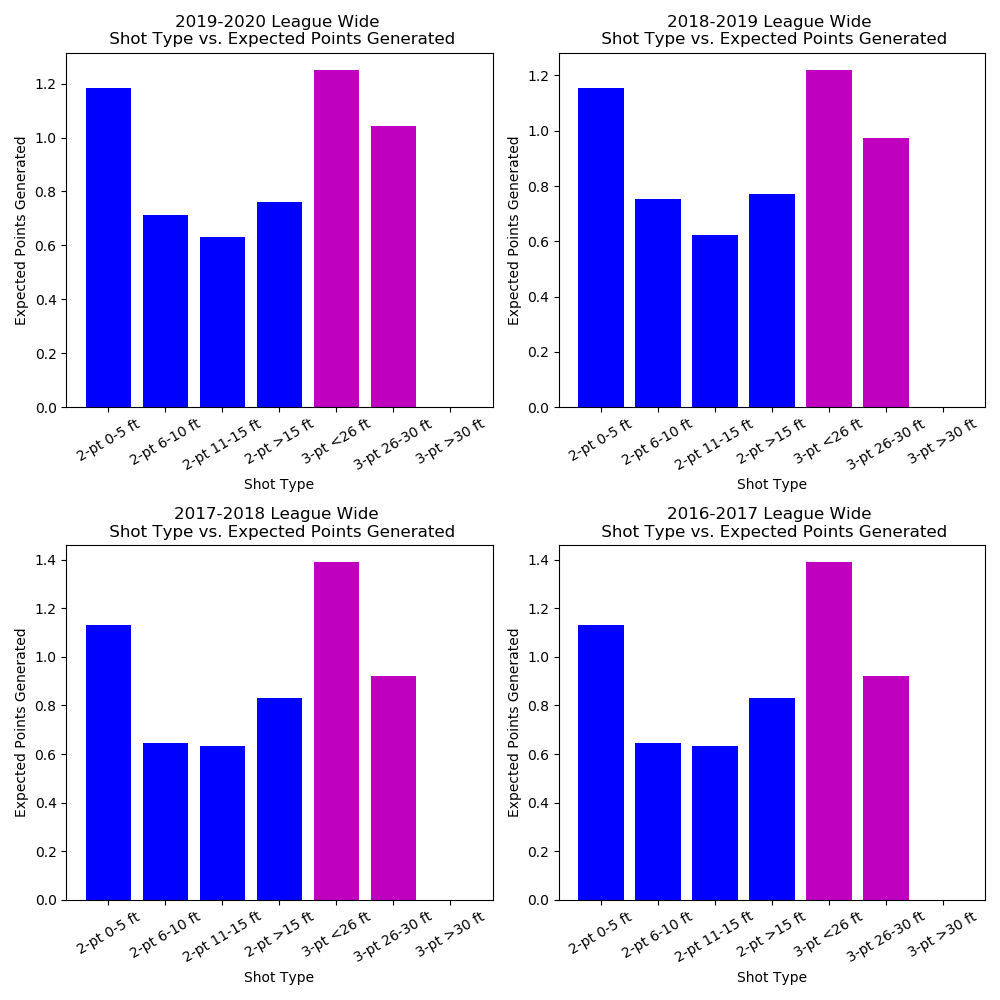
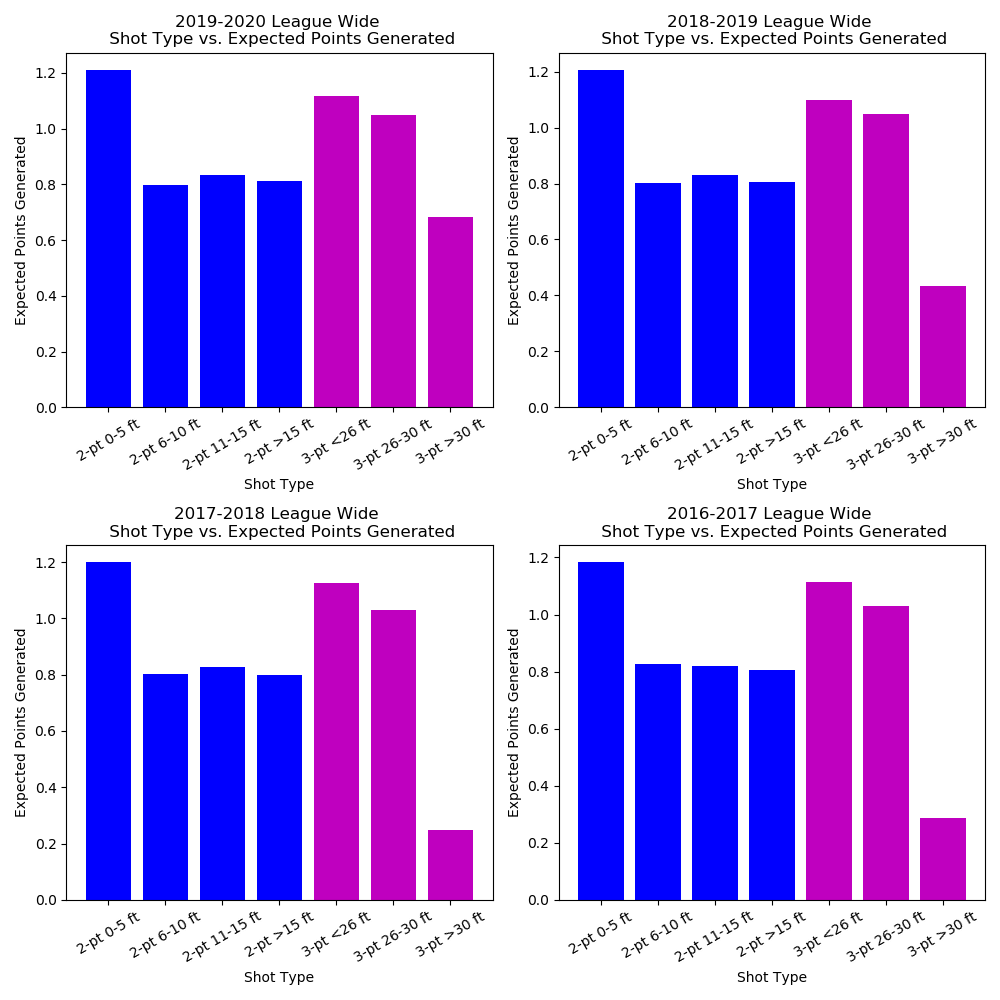
updated for big data

diff --git a/shot_value.py b/shot_value.py
@@ -193,16 +193,6 @@ def calc_exp_pts_w_orb(shots, rebs, ppp):
 
 
 def gen_bar_shots_attempts(shots):
-    # fig = plt.figure()
-    # shot_types = shots.keys()
-    # attempts = np.array([shots[shot_type][0] for shot_type in shots])
-    # plt.bar(shot_types, attempts, color=['b', 'b', 'b', 'b', 'm', 'm', 'm'])
-    # plt.xticks(rotation=30)
-    # plt.xlabel('Shot Type')
-    # plt.ylabel('# Shots Attempted')
-    # plt.title('2019-2020 League Wide \n Shot Type vs. # Shots Attempted')
-    # plt.tight_layout()
-    # fig.savefig('shot_attempts_bar.png')
     fig, ax = plt.subplots(nrows=2, ncols=2, figsize=(10, 10))
     for i in range(len(ax)):
         for j in range(len(ax[0])):
@@ -218,7 +208,6 @@ def gen_bar_shots_attempts(shots):
     fig.savefig('shot_attempts.png')
 
     
-
 def gen_bar_shot_percentages(shots):
     fig, ax = plt.subplots(nrows=2, ncols=2, figsize=(10, 10))
     for i in range(len(ax)):
@@ -239,19 +228,6 @@ def gen_bar_shot_percentages(shots):
 
 
 def gen_bar_orb_percentages(shots, rebs):
-    # fig = plt.figure()
-    # shot_types = shots.keys()
-    # attempts = np.array([shots[shot_type][0] for shot_type in shots])
-    # orbs = np.array([rebs[shot_type] for shot_type in rebs])
-    # orb_percentages = orbs / attempts * 100
-    # plt.bar(shot_types, orb_percentages, color=['b', 'b', 'b', 'b', 'm', 'm', 'm'])
-    # plt.xticks(rotation=30)
-    # plt.xlabel('Shot Type')
-    # plt.ylabel('Offensive Rebounding %')
-    # plt.title('2019-2020 League Wide \n Shot Type vs. Offensive Rebounding %')
-    # plt.tight_layout()
-    # fig.savefig('orb_percentage_of_attempts_bar.png')
-
     fig, ax = plt.subplots(nrows=2, ncols=2, figsize=(10, 10))
     for i in range(len(ax)):
         for j in range(len(ax[0])):
@@ -270,21 +246,6 @@ def gen_bar_orb_percentages(shots, rebs):
 
 
 def gen_bar_orbp_off_miss(shots, rebs):
-    # fig = plt.figure()
-    # shot_types = shots.keys()
-    # attempts = np.array([shots[shot_type][0] for shot_type in shots])
-    # makes = np.array([shots[shot_type][1] for shot_type in shots])
-    # misses = attempts - makes
-    # orbs = np.array([rebs[shot_type] for shot_type in rebs])
-    # orb_percentages = orbs / misses * 100
-    # plt.bar(shot_types, orb_percentages, color=['b', 'b', 'b', 'b', 'm', 'm', 'm'])
-    # plt.xticks(rotation=30)
-    # plt.xlabel('Shot Type')
-    # plt.ylabel('Offensive Rebounding % Off Miss')
-    # plt.title('2019-2020 League Wide \n Shot Type vs. Offensive Rebounding % Off Miss')
-    # plt.tight_layout()
-    # fig.savefig('orb_percentage_of_misses.png')
-
     fig, ax = plt.subplots(nrows=2, ncols=2, figsize=(10, 10))
     for i in range(len(ax)):
         for j in range(len(ax[0])):
@@ -305,17 +266,6 @@ def gen_bar_orbp_off_miss(shots, rebs):
 
 
 def gen_bar_exp_pts(exp_pts):
-    # fig = plt.figure()
-    # shot_types = exp_pts.keys()
-    # exp_pts = exp_pts.values()
-    # plt.bar(shot_types, exp_pts, color=['b', 'b', 'b', 'b', 'm', 'm', 'm'])
-    # plt.xticks(rotation=30)
-    # plt.xlabel('Shot Type')
-    # plt.ylabel('Expected Points Generated')
-    # plt.title('2019-2020 League Wide \n Shot Type vs. Expected Points Generated (Not Including OREBs)')
-    # plt.tight_layout()
-    # fig.savefig('exp_pts_bar.png')
-    
     fig, ax = plt.subplots(nrows=2, ncols=2, figsize=(10, 10))
     for i in range(len(ax)):
         for j in range(len(ax[0])):
@@ -332,17 +282,6 @@ def gen_bar_exp_pts(exp_pts):
 
 
 def gen_bar_exp_pts_w_orb(exp_pts_w_orb):
-    # fig = plt.figure()
-    # shot_types = exp_pts_w_orb.keys()
-    # exp_pts = exp_pts_w_orb.values()
-    # plt.bar(shot_types, exp_pts, color=['b', 'b', 'b', 'b', 'm', 'm', 'm'])
-    # plt.xticks(rotation=30)
-    # plt.xlabel('Shot Type')
-    # plt.ylabel('Expected Points Generated')
-    # plt.title('2019-2020 League Wide \n Shot Type vs. Expected Points Generated (Including OREBs)')
-    # plt.tight_layout()
-    # fig.savefig('exp_pts_w_orb_bar.png')
-
     fig, ax = plt.subplots(nrows=2, ncols=2, figsize=(10, 10))
     for i in range(len(ax)):
         for j in range(len(ax[0])):
@@ -359,28 +298,29 @@ def gen_bar_exp_pts_w_orb(exp_pts_w_orb):
 
 
 def main():
-    # data_19_20 = pd.read_csv('NBA-PBP-2019-2020.csv')
-    # data_18_19 = pd.read_csv('NBA-PBP-2018-2019.csv')
-    # data_17_18 = pd.read_csv('NBA-PBP-2017-2018.csv')
-    # data_16_17 = pd.read_csv('NBA-PBP-2016-2017.csv')
-    # data = [data_19_20, data_18_19]
-    small_data_1 = pd.read_csv('small.txt')
-    small_data_2 = pd.read_csv('small2.txt')
-    small_data_3 = pd.read_csv('small3.txt')
-    small_data_4 = pd.read_csv('small4.txt')
-    data = [small_data_1, small_data_2, small_data_3, small_data_4]
+    data_19_20 = pd.read_csv('NBA-PBP-2019-2020.csv')
+    data_18_19 = pd.read_csv('NBA-PBP-2018-2019.csv')
+    data_17_18 = pd.read_csv('NBA-PBP-2017-2018.csv')
+    data_16_17 = pd.read_csv('NBA-PBP-2016-2017.csv')
+    data = [data_19_20, data_18_19, data_17_18, data_16_17]
+    # small_data_1 = pd.read_csv('small.txt')
+    # small_data_2 = pd.read_csv('small2.txt')
+    # small_data_3 = pd.read_csv('small3.txt')
+    # small_data_4 = pd.read_csv('small4.txt')
+    # data = [small_data_1, small_data_2, small_data_3, small_data_4]
     ppp_data = [calc_ppp(year) for year in data]
-    cleaned_data = [clean_data(year) for year in data]
-    shot_data = calc_shots(cleaned_data)
-    rebs_data = calc_rebs(cleaned_data)
-    exp_pts_data = calc_exp_pts(shot_data)
-    exp_pts_w_orb_data = calc_exp_pts_w_orb(shot_data, rebs_data, ppp_data)
-    gen_bar_shots_attempts(shot_data)
-    gen_bar_shot_percentages(shot_data)
-    gen_bar_orb_percentages(shot_data, rebs_data)
-    gen_bar_orbp_off_miss(shot_data, rebs_data)
-    gen_bar_exp_pts(exp_pts_data)
-    gen_bar_exp_pts_w_orb(exp_pts_w_orb_data)
+    print(ppp_data)
+    # cleaned_data = [clean_data(year) for year in data]
+    # shot_data = calc_shots(cleaned_data)
+    # rebs_data = calc_rebs(cleaned_data)
+    # exp_pts_data = calc_exp_pts(shot_data)
+    # exp_pts_w_orb_data = calc_exp_pts_w_orb(shot_data, rebs_data, ppp_data)
+    # gen_bar_shots_attempts(shot_data)
+    # gen_bar_shot_percentages(shot_data)
+    # gen_bar_orb_percentages(shot_data, rebs_data)
+    # gen_bar_orbp_off_miss(shot_data, rebs_data)
+    # gen_bar_exp_pts(exp_pts_data)
+    # gen_bar_exp_pts_w_orb(exp_pts_w_orb_data)
 
 
 if __name__ == '__main__':
